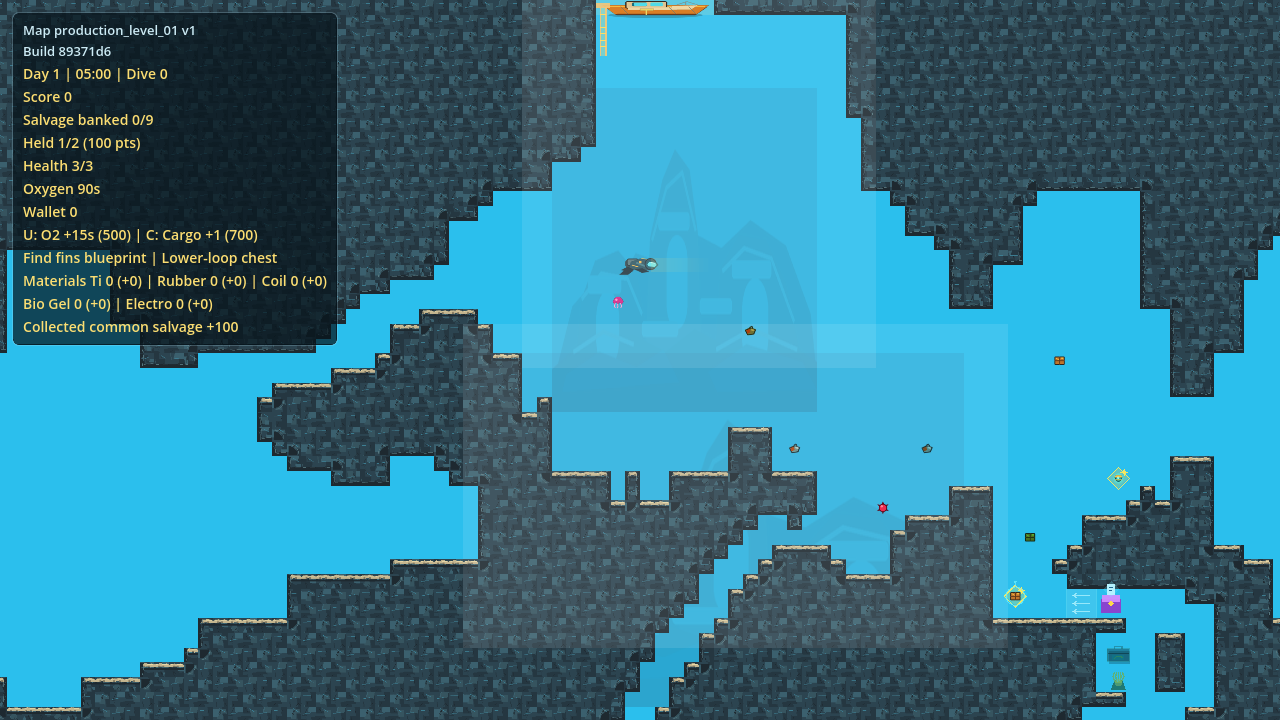
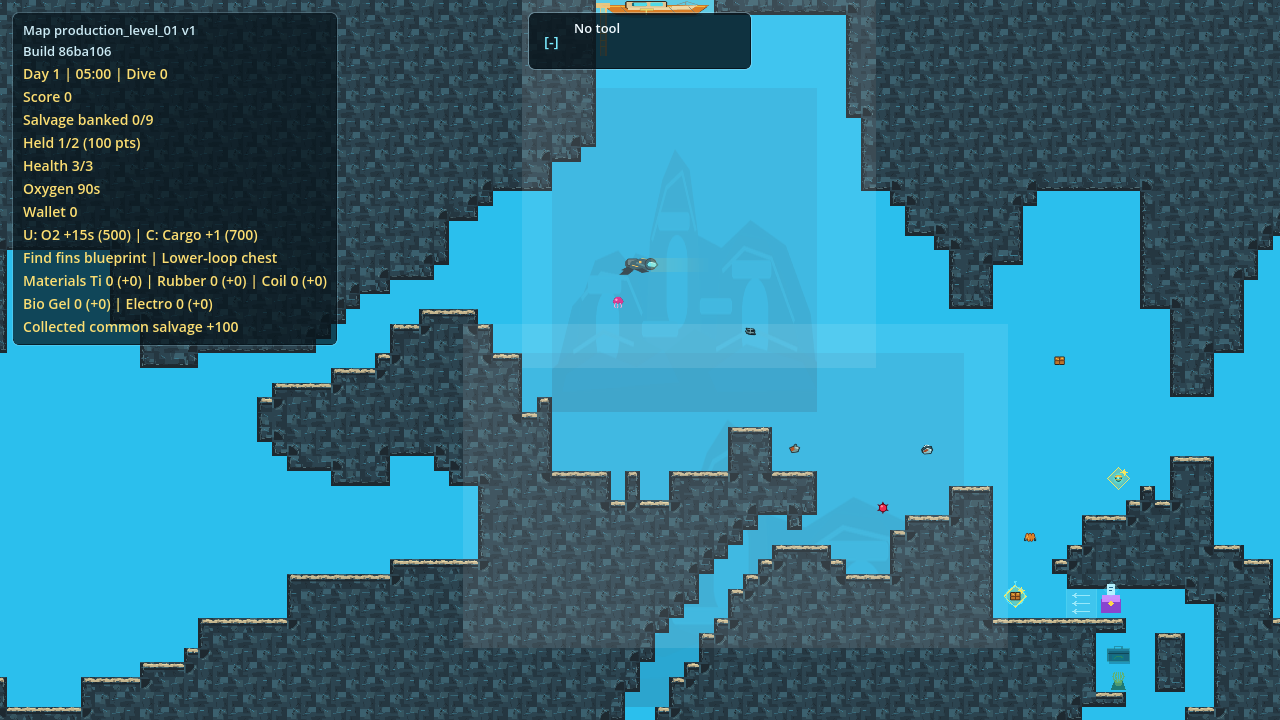
docs: verify Expansion 13 owner-HOLD correction (#1009) (#1019)

diff --git a/docs/current/PROJECT_CONTEXT.md b/docs/current/PROJECT_CONTEXT.md
@@ -38,7 +38,7 @@ Expansion 11 is complete with player GO through #914 plus corrections #925/#927.
 
 Expansion 12 is complete with player GO through #941 plus player-HOLD corrections #951-#953. The deep-harmonic clue now reveals a durable Ti2/Rubber1/Gel1 night-built pressure suit for one scoutable lower-central pressure threshold and protected abyssal survey. Explicit `Q/SCAN` activation, full-cargo scanner feedback, pending boat-return guidance, deterministic journey coverage, and exact-SHA Web verification pass at runtime `d864a9e`.
 
-Expansion 13 Southeast Wreck Return remains at owner HOLD. #986-#990 corrected scanner acquisition and cutter-blueprint causality at exact runtime `89371d6`; #1000-#1008 add deliberate shared tool controls, matching mobile presentation, named material sprites, sealed-wreck navigation data that remains pending through failure-safe held cargo until canonical-boat commitment, deterministic correction evidence, and focused desktop/mobile captures. #1009 still owns final visual/Web review; #969 remains open for owner replay.
+Expansion 13 Southeast Wreck Return remains at owner HOLD. #1000-#1009 technically complete deliberate shared tool controls, matching mobile presentation, named material sprites, sealed-wreck navigation data that remains pending through failure-safe held cargo until canonical-boat commitment, deterministic evidence, focused captures, controlled baseline acceptance, and exact-SHA Web verification at runtime `86ba106`. #969 remains open for owner replay.
 
 Emergency Week and Food/Water/Power overnight survival taxes are rejected. Shortcut and fast-travel networks are also rejected; remembered geography remains part of expedition pressure.
 
@@ -68,7 +68,7 @@ Controlled gameplay/visual passes are now a validation lane inside the roadmap, 
 - Completed Expansion 10 handoff: `docs/current/OCEANGAME_EXPANSION_10_CLOSEOUT.md` plus its linked plan, source contract, visual decision, Web verification, and correction #900
 - Completed Expansion 11 handoff: `docs/current/OCEANGAME_EXPANSION_11_CLOSEOUT.md` plus its plan, source/state contract, visual decision, Web verification, corrections #925/#927, and player GO #914
 - Completed Expansion 12 handoff: `docs/current/OCEANGAME_EXPANSION_12_CLOSEOUT.md` plus its plan, source/state contract, visual decision, Web verification, corrections #951-#953, and player GO #941
-- Active Expansion 13 owner-HOLD handoff: `docs/current/OCEANGAME_EXPANSION_13_OWNER_HOLD_CORRECTION_PLAN.md` and `docs/current/ACTIVE_TOOL_AND_WRECK_REWARD_CONTRACT.md`
+- Active Expansion 13 owner-replay handoff: `docs/current/OCEANGAME_EXPANSION_13_OWNER_HOLD_CORRECTION_PLAN.md`, `docs/current/ACTIVE_TOOL_AND_WRECK_REWARD_CONTRACT.md`, and `docs/current/OCEANGAME_EXPANSION_13_OWNER_HOLD_CORRECTION_VISUAL_WEB_VERIFICATION.md`
 - Progression framework: `docs/planning/CAPABILITY_RESOURCE_PROGRESSION_MATRIX.md`
 - Architecture: `docs/current/ARCHITECTURE.md`
 - Tooling: `docs/current/TOOLING.md`
@@ -76,10 +76,10 @@ Controlled gameplay/visual passes are now a validation lane inside the roadmap, 
 - Latest expansion decision: owner HOLD with correction #1000-#1009 in `docs/current/OCEANGAME_EXPANSION_13_OWNER_HOLD_CORRECTION_PLAN.md`
 - Latest completed expansion plan: `docs/current/OCEANGAME_EXPANSION_13_PLAN.md`, with ownership locked by `docs/current/OCEANGAME_EXPANSION_13_SOURCE_STATE_CONTRACT.md`
 - Latest source contract: `docs/current/SCAN_SUBJECT_SOURCE_CONTRACT.md`, bounded by `docs/current/OCEANGAME_EXPANSION_13_SOURCE_STATE_CONTRACT.md`
-- Latest visual decision: corrected full-level baseline accepted in `docs/current/OCEANGAME_EXPANSION_13_HOLD_CORRECTION_VISUAL_WEB_VERIFICATION.md`
+- Latest visual decision: owner-HOLD correction baseline accepted from runtime `86ba106` in `docs/current/OCEANGAME_EXPANSION_13_OWNER_HOLD_CORRECTION_VISUAL_WEB_VERIFICATION.md`
 - Current expansion gates: `docs/current/SIMPLE_DIVER_GAME_09_ARCHITECTURE_VALIDATION_GATES.md`
 - Release-candidate closeout: `docs/current/SIMPLE_DIVER_GAME_08_RELEASE_CANDIDATE_CLOSEOUT.md` (GO; regression foundation for Expansion 01).
-- Latest Web verification: corrected Expansion 13 runtime `89371d6`, recorded in `docs/current/OCEANGAME_EXPANSION_13_HOLD_CORRECTION_VISUAL_WEB_VERIFICATION.md`.
+- Latest Web verification: owner-HOLD correction runtime `86ba106`, recorded in `docs/current/OCEANGAME_EXPANSION_13_OWNER_HOLD_CORRECTION_VISUAL_WEB_VERIFICATION.md`.
 
 Start every new coding session by reading `AGENTS.md`, this file, `README.md`, and the relevant docs under `docs/current/`.
 
@@ -146,7 +146,7 @@ Current map-loading helper:
 
 ## Web Preview Status
 
-The public preview was last technically verified for the corrected Expansion 13 HOLD candidate at exact build `89371d6`; this proves deployment, not player approval:
+The public preview was last technically verified for the Expansion 13 owner-HOLD correction candidate at exact build `86ba106`; this proves deployment, not player approval:
 
 ```text
 https://joeypshell.github.io/oceangame2/
@@ -210,8 +210,8 @@ Current issue state as of 2026-07-17:
 - Closed: #905-#914 plus corrections #925/#927 completed Expansion 11 with player GO and exact-SHA Web verification.
 - Closed: #932-#941 plus corrections #951-#953 completed Expansion 12 with player GO and exact-SHA Web verification.
 - Closed: #980 and #986-#990 delivered the first Expansion 13 HOLD correction and exact-SHA runtime `89371d6` verification.
-- Closed correction foundation: #1000-#1008 define and implement selected active-tool input, deliberate cutter activation, compact controls, readable named material sprites, the source/runtime sealed-wreck navigation reward through exact-once boat commitment and profile compatibility, deterministic correction evidence, and focused desktop/mobile captures.
-- Active: #1009 owns final visual/Web review; #969 and milestone #39 remain open for owner replay. No next expansion or broad economy is selected.
+- Closed correction batch: #1000-#1009 define, implement, validate, capture, accept, and deploy selected active-tool input, deliberate cutter activation, compact controls, readable named material sprites, and the source/runtime sealed-wreck navigation reward through exact-once boat commitment and profile compatibility.
+- Active: #969 and milestone #39 remain open for owner replay. No next expansion or broad economy is selected.
 - Open bookkeeping: #849 names three UID sidecars already committed by `e825c88`; it does not block planning and should be closed separately with that evidence.
 - Deferred: #52/#53 remain optional slice-03 presentation polish.
 - Completed pass ranges and historical closeouts are indexed in `docs/MILESTONES.md`; do not duplicate that history here.
@@ -349,7 +349,7 @@ Current issue state as of 2026-07-17:
 
 ## Recommended Next Work
 
-Use `docs/planning/OCEANGAME_PHASE_2_ROADMAP.md`, `docs/current/OCEANGAME_EXPANSION_13_OWNER_HOLD_CORRECTION_PLAN.md`, and `docs/current/ACTIVE_TOOL_AND_WRECK_REWARD_CONTRACT.md` as the current handoff. Resolve only #1009 final visual/Web review, then return to #969 for owner replay; do not select another expansion or implement spendable credits first.
+Use `docs/planning/OCEANGAME_PHASE_2_ROADMAP.md`, `docs/current/OCEANGAME_EXPANSION_13_OWNER_HOLD_CORRECTION_PLAN.md`, `docs/current/ACTIVE_TOOL_AND_WRECK_REWARD_CONTRACT.md`, and `docs/current/OCEANGAME_EXPANSION_13_OWNER_HOLD_CORRECTION_VISUAL_WEB_VERIFICATION.md` as the current handoff. Complete only #969 owner replay; do not select another expansion or implement spendable credits first.
 
 Accepted constraints for next work:
 

diff --git a/docs/current/ARCHITECTURE.md b/docs/current/ARCHITECTURE.md
@@ -4,7 +4,7 @@
 
 The current project is a Godot 4.7 side-view ocean salvage prototype for proving the source-driven map, terrain, validation, capture, and gameplay workflow that will support a finished small diver game.
 
-The long-range product roadmap is `docs/planning/OCEANGAME_PHASE_2_ROADMAP.md`. Expansion 13 remains at owner HOLD after exact runtime `89371d6`. #1000-#1008 establish the active-tool correction, compact controls, named material presentation, sealed-wreck navigation reward, deterministic correction evidence, and focused desktop/mobile captures; final visual/Web review remains in #1009. #969 remains the owner replay gate and no next expansion is selected.
+The long-range product roadmap is `docs/planning/OCEANGAME_PHASE_2_ROADMAP.md`. Expansion 13 remains at owner HOLD, while #1000-#1009 technically establish the active-tool correction, compact controls, named material presentation, sealed-wreck navigation reward, deterministic evidence, focused captures, accepted full-level baseline, and exact-SHA Web deployment at runtime `86ba106`. #969 remains the owner replay gate and no next expansion is selected.
 
 ## Source Of Truth
 
@@ -232,7 +232,7 @@ Art placement must not create, remove, or move collision.
 - Expansion 12 adds `required_pressure_capability_id` to the same survey flow. `PressureZoneController` owns source-zone overlap, warning/grace state, contextual feedback, and one oxygen-drain multiplier; `SortieState` remains the sole mutable oxygen owner. The durable Ti2/Rubber1/Gel1 pressure-suit project restores normal zone drain, while explicit `Q/SCAN`, cancel-on-leave, full-cargo independence, pending failure cleanup, and canonical-boat exact-once commitment remain with the existing survey/discovery owners.
 - Expansion 13 reuses that flow for `southeast_wreck_archive_survey`. The pressure suit remains transitively grounded in the abyssal discovery, while the regional journey directly requires `southeast_wreck_navigation_data`. `CargoCollectionController` keeps valuable salvage capacity/held-cargo semantics authoritative; `ToolTargetRewardRuntime` translates the cutter target's source reward into the existing `ExpeditionDiscoveryState`; canonical-boat update commits through `ExpansionProfileState`, and completed archive profiles migrate the prerequisite exactly once. `RegionalJourneyPresentation` reveals only the source-authored broad southeast lead after commitment. `SurveyDependencyState` still requires the cutter-cleared recorder before scanning.
 - `--smoke-expansion-13-southeast-wreck-return` uses an empty temporary profile plus deterministic prerequisite fixtures, then swims the collision-active route once and protects pressure crossing, oxygen margins, interaction/failure semantics, boat commitment, and profile reload without purchasing the optional session oxygen tank.
-- `--smoke-expansion-13-scanner-cutter-correction` protects the fresh and migrated scanner-to-cutter chain, forward-cone selection and cancellation, physical artifact presentation, no-recipe-before-commit rule, exact materials/night build, separate sealed-wreck salvage value and pending navigation data, canonical-boat commitment, broad southeast lead, and failure cleanup. Focused active-tool, cutter-state, sealed-wreck reward, combat, and southeast-return checks complete the deterministic correction matrix without duplicating the release suite. The matching focused capture renders seven desktop/mobile states without entering accepted baselines.
+- `--smoke-expansion-13-scanner-cutter-correction` protects the fresh and migrated scanner-to-cutter chain, forward-cone selection and cancellation, physical artifact presentation, no-recipe-before-commit rule, exact materials/night build, separate sealed-wreck salvage value and pending navigation data, canonical-boat commitment, broad southeast lead, and failure cleanup. Focused active-tool, cutter-state, sealed-wreck reward, combat, and southeast-return checks complete the deterministic correction matrix without duplicating the release suite. The matching focused capture renders 16 desktop/mobile states without entering accepted baselines.
 - Expansion 06 source/state ownership is locked in `OCEANGAME_EXPANSION_06_SOURCE_CONTRACT.md` and corrected by `OCEANGAME_EXPANSION_07_PLAYER_GATE_CORRECTION.md`: one immutable deep-cache territorial-lunge encounter, one durable non-circular shock-prod project, focused day-local hostile state, and player health separate from oxygen. The eel cache declares a behavioral guard link but no capability collection lock; contact and knockback interrupt normal timed salvage until the encounter is controlled.
 - `--smoke-expansion-06-combat-foundation` protects the attemptable unarmed cache, active-eel interruption, contact damage/invulnerability, continuing oxygen/daylight pressure, exact project build/reload, three-hit no-reward victory, guarded cache collection/banking, connector/day state, combat cleanup, and failure resets.
 - `--capture-expansion-06-combat-foundation` renders locked warning, unarmed lunge/evade, and armed 1/3-health damage states at both review viewports without changing accepted baselines.

diff --git a/docs/current/OCEANGAME_EXPANSION_13_OWNER_HOLD_CORRECTION_VISUAL_WEB_VERIFICATION.md b/docs/current/OCEANGAME_EXPANSION_13_OWNER_HOLD_CORRECTION_VISUAL_WEB_VERIFICATION.md
@@ -1,0 +1,105 @@
+# OceanGame Expansion 13 Owner-HOLD Correction Visual And Web Verification
+
+Date: 2026-07-17
+
+Issue: #1009
+
+Runtime candidate: `86ba106eff4c703d9b0d5e4ac6f93735af49857e`
+
+## Result
+
+**Technical PASS. Expansion 13 remains at owner HOLD until #969 records the
+player replay.**
+
+Issues #1000-#1009 now provide deliberate shared tool use, compact desktop and
+mobile tool presentation, named material sprites, a separate +300 sealed-wreck
+salvage payoff, failure-safe pending navigation data, exact-once boat
+commitment, deterministic evidence, focused captures, and exact-SHA Web
+verification. Automation does not prove clarity, engagement, or player GO.
+
+- Public preview: `https://joeypshell.github.io/oceangame2/`
+- Fresh owner review:
+  `https://joeypshell.github.io/oceangame2/?review=86ba106eff4c703d9b0d5e4ac6f93735af49857e`
+- [Godot Web Export run 29619027177](https://github.com/joeypshell/oceangame2/actions/runs/29619027177): success
+
+The later documentation/baseline merge records this decision; it is not a new
+runtime candidate.
+
+## Visual Decision
+
+The `production_level_01` baseline is accepted from exact runtime `86ba106`.
+All comparison sheets were rendered and inspected before acceptance.
+
+Accepted intentional differences from the prior `89371d6` baseline are:
+
+- the compact active-tool HUD on desktop and mobile
+- scanner, cutter, and shock-prod selected-tool presentation
+- source-authored titanium ingot, folded rubber, and spring-like coil sprites
+- the review build label advancing from `89371d6` to `86ba106`
+- focused wrong-tool guidance, deliberate cutter progress, separate +300 and
+  pending navigation-data feedback, boat commitment, and southeast lead
+
+Stable unchanged areas are terrain, collision-facing edges, boat, diver,
+camera framing, lighting, background layers, unrelated props, and the accepted
+HUD outside the selected-tool surface, and the accepted slice-01 through
+slice-04 baselines. Only the 14 full-level views were
+accepted. After acceptance, all 14 accepted/current hashes match and every
+comparison difference column is black.
+
+The 32 focused correction PNGs remain ignored under
+`visual_captures/expansion_13_scanner_cutter_correction/`. Two exact-runtime
+runs produced 32/32 identical SHA-256 hashes. No focused capture, `.import`
+sidecar, cache, or unrelated generated file entered the baseline.
+
+## Browser Evidence
+
+The public checker independently verified deployed runtime `86ba106`:
+
+- external `build_info.json` reports the exact 40-character SHA
+- root and fresh-review URLs initialize `production_level_01`
+- an explicit slice-review URL initializes `production_slice_01` on desktop/mobile
+- primary canvas: 1280x720 CSS pixels
+- wide canvas: 1920x1080 CSS pixels
+- iPhone-landscape canvas: 2532x1170 intrinsic at 844x390 CSS, positioned at
+  `(0, 0)` over an 844x390 visual viewport with zero offset
+- mobile touch differences: stick-down `8.60`, oxygen `4.91`, build `5.60`,
+  use `5.10`; all exceed the minimum `2`
+- framing mean difference: `1.35`, below the maximum `18`
+- no failed requests, missing assets, `SCRIPT ERROR`, or Godot `ERROR:` output
+
+Independent desktop and mobile screenshots were inspected. The canvas is top
+anchored, the mobile controls remain reachable, the compact tool HUD does not
+overlap them, and the expected aspect-preserving side bars remain inside the
+canvas. Chromium emitted only allowed software-WebGL fallback and `ReadPixels`
+performance warnings.
+
+## Owner Replay
+
+#969 and milestone #39 remain open. Use the fresh owner-review URL and check:
+
+1. Rubber and coil are recognizable without relying on their old generic art.
+2. `Tab`/`TOOL` cycles scanner, cutter, and shock prod in a predictable order.
+3. `Q`/`USE` activates only the selected tool; cutter proximity alone does not
+   progress, and a wrong tool gives useful selection guidance.
+4. Opening the sealed wreck grants valuable salvage and pending navigation
+   data as separate outcomes.
+5. Returning to the canonical boat commits that data and reveals the broad
+   southeast lead.
+6. The corrected journey provides enough clarity and payoff for GO; otherwise
+   record a concrete HOLD finding on #969.
+
+Do not select Expansion 14 until that owner decision is recorded.
+
+## Verification
+
+```powershell
+python tools/write_build_info.py
+& 'C:\Program Files\Godot\Godot_v4.7-stable_win64.exe\Godot_v4.7-stable_win64_console.exe' --path . --capture-expansion-13-scanner-cutter-correction
+& 'C:\Program Files\Godot\Godot_v4.7-stable_win64.exe\Godot_v4.7-stable_win64_console.exe' --path . --capture-expansion-09-full-level
+python tools/manage_production_slice_baseline.py compare-all
+python tools/manage_production_slice_baseline.py --slice production_level_01 accept
+python tools/manage_production_slice_baseline.py check-clean --all-slices
+node tools/check_web_preview.cjs https://joeypshell.github.io/oceangame2/ --expected-sha 86ba106eff4c703d9b0d5e4ac6f93735af49857e
+python tools/check_file_lengths.py
+git diff --check
+```

diff --git a/docs/MILESTONES.md b/docs/MILESTONES.md
@@ -31,10 +31,11 @@ This is the compact milestone index. Detailed direction lives in:
 - `docs/current/OCEANGAME_EXPANSION_13_HOLD_CORRECTION_VISUAL_WEB_VERIFICATION.md`
 - `docs/current/OCEANGAME_EXPANSION_13_OWNER_HOLD_CORRECTION_PLAN.md`
 - `docs/current/ACTIVE_TOOL_AND_WRECK_REWARD_CONTRACT.md`
+- `docs/current/OCEANGAME_EXPANSION_13_OWNER_HOLD_CORRECTION_VISUAL_WEB_VERIFICATION.md`
 
 ## Current State
 
-Simple Diver Game 01-09 and OceanGame Expansions 01-12 are complete. Expansion 13 remains at owner HOLD in open milestone #39. Exact runtime `89371d6` proved the scanner-to-cutter discovery chain but exposed automatic cutter use, unclear rubber/coil visuals, and a sealed-wreck reward with no durable progression. #1000-#1009 own the bounded correction before owner replay #969. `production_level_01` remains the normal editor, local, and public Web default; slices 01-04 remain unchanged regression/provenance fixtures.
+Simple Diver Game 01-09 and OceanGame Expansions 01-12 are complete. Expansion 13 remains at owner HOLD in open milestone #39, while #1000-#1009 technically complete the bounded active-tool, material-visual, and sealed-wreck navigation correction at exact runtime `86ba106`. Only owner replay #969 remains. `production_level_01` remains the normal editor, local, and public Web default; slices 01-04 remain unchanged regression/provenance fixtures.
 
 Phase 2 is now selected. Its organizing loop is daylight with multiple oxygen sorties, boat-only banking, night debrief/preparation, material-and-knowledge projects, capability-gated map returns, practical research, enemies/weapons, and biological resources.
 
@@ -42,14 +43,14 @@ Emergency Week and overnight Food/Water/Power survival taxes are rejected. Short
 
 ## Planning Horizons
 
-- Committed: resolve Expansion 13 owner-HOLD issues #1000-#1009 and return to #969.
+- Committed: complete Expansion 13 owner replay #969 against exact runtime `86ba106`.
 - Proposed: no next milestone or broad economy until the owner replay records GO/HOLD.
 - Directional: pure oxygen-capacity progression, other regional identities, and exceptional interiors remain uncommitted.
 - Vision: production content, vehicles, broad crafting, final art/audio, accessibility, input support, balance, save hardening, and release work remain intentionally un-ticketed.
 
 ## Recent GitHub Milestone State
 
-1. [Expansion 13: Southeast Wreck Return](https://github.com/joeypshell/oceangame2/milestone/39) - owner-HOLD correction #1000-#1009 is active; #969 remains the final replay gate.
+1. [Expansion 13: Southeast Wreck Return](https://github.com/joeypshell/oceangame2/milestone/39) - owner-HOLD correction #1000-#1009 is technically complete at `86ba106`; #969 remains the final replay gate.
 2. [Expansion 12: Abyssal Pressure Return](https://github.com/joeypshell/oceangame2/milestone/38) - complete through #941 plus corrections #951-#953, with player GO and exact-SHA Web verification.
 3. [Expansion 11: Deep-Harmonic Light Return](https://github.com/joeypshell/oceangame2/milestone/37) - complete through #914 plus corrections #925/#927, with player GO and final exact-SHA Web verification.
 
@@ -91,12 +92,12 @@ Emergency Week and overnight Food/Water/Power survival taxes are rejected. Short
 
 ## Expansion 13 Player HOLD
 
-#960-#968 delivered the original southeast wreck journey at `a9d1431`; #980 and #986-#990 corrected its scanner-to-cutter discovery chain at `89371d6`. The owner replay then found automatic cutter use, unclear rubber/coil visuals, and a sealed-wreck payoff that ends at ordinary `+300` value. #1000-#1009 now own a bounded active-tool, material-visual, and navigation-data correction. #969 remains open for the owner replay; automation cannot declare GO.
+#960-#968 delivered the original southeast wreck journey at `a9d1431`; #980 and #986-#990 corrected its scanner-to-cutter discovery chain at `89371d6`. The owner replay then found automatic cutter use, unclear rubber/coil visuals, and a sealed-wreck payoff that ended at ordinary `+300` value. #1000-#1009 technically complete the bounded active-tool, material-visual, and navigation-data correction at `86ba106`. #969 remains open for the owner replay; automation cannot declare GO.
 
 ## Roadmap Rules
 
 - Do not reopen completed expansion batches merely to keep the queue full.
-- Resolve #1000-#1009 and complete #969's owner GO/HOLD replay before selecting another milestone.
+- Complete #969's owner GO/HOLD replay before selecting another milestone.
 - Keep controlled passes as validation/review structure, not as the product roadmap.
 - Keep `production_level_01` as the default map unless a separate reviewed decision changes it.
 - Do not use teleports, prompted connectors, map menus, or the current stabilizer for normal traversal of the full level.

diff --git a/README.md b/README.md
@@ -2,7 +2,7 @@
 
 `oceangame2` is a compact side-view diver salvage game foundation in a controlled OceanGame Phase 2 expansion.
 
-The compact diver foundation and OceanGame Expansions 01-12 are complete with player GO. Expansion 13 remains at owner HOLD after exact runtime `89371d6` exposed automatic cutter use, unclear rubber/coil visuals, and a sealed-wreck payoff that does not durably advance progression. Correction issues #1000-#1009 and player gate #969 remain inside milestone #39. The contiguous `production_level_01` remains the editor, local, and public Web default; slices 01-04 remain unchanged regression fixtures.
+The compact diver foundation and OceanGame Expansions 01-12 are complete with player GO. Expansion 13 remains at owner HOLD, but correction issues #1000-#1009 are technically complete and deployed at exact runtime `86ba106`: tools now use one deliberate control model, named material sprites are readable, and sealed-wreck navigation data commits at the boat. Player gate #969 remains open inside milestone #39. The contiguous `production_level_01` remains the editor, local, and public Web default; slices 01-04 remain unchanged regression fixtures.
 
 ## Project Goal
 
@@ -24,7 +24,7 @@ Build a small side-view salvage game that proves:
 
 ## Planning Docs
 
-Current handoff is the Expansion 13 owner-HOLD correction plan and active issues #1000-#1009. Correct active-tool use, material readability, and the progression-bearing sealed-wreck reward, then return to #969 for owner replay. A broad credits economy, Expansion 14, teleport, connector-based normal traversal, stabilizer entry requirements, pure oxygen-capacity gating, and broad pressure progression remain deferred.
+Current handoff is owner replay #969 against the technically verified Expansion 13 correction at `86ba106`. Test deliberate active-tool use, material readability, and the progression-bearing sealed-wreck reward before recording GO/HOLD. A broad credits economy, Expansion 14, teleport, connector-based normal traversal, stabilizer entry requirements, pure oxygen-capacity gating, and broad pressure progression remain deferred.
 
 Core sources and operating docs:
 
@@ -120,6 +120,7 @@ Current release and expansion handoff:
 - [Expansion 13 HOLD Correction Visual And Web Verification](docs/current/OCEANGAME_EXPANSION_13_HOLD_CORRECTION_VISUAL_WEB_VERIFICATION.md)
 - [Expansion 13 Owner-HOLD Correction Plan](docs/current/OCEANGAME_EXPANSION_13_OWNER_HOLD_CORRECTION_PLAN.md)
 - [Active Tool And Wreck Reward Contract](docs/current/ACTIVE_TOOL_AND_WRECK_REWARD_CONTRACT.md)
+- [Expansion 13 Owner-HOLD Correction Visual And Web Verification](docs/current/OCEANGAME_EXPANSION_13_OWNER_HOLD_CORRECTION_VISUAL_WEB_VERIFICATION.md)
 
 Historical controlled-pass documents remain under `docs/current/`; use their closeouts only when working on the matching regression surface.
 
@@ -253,4 +254,4 @@ Local preview commands are documented in [Tooling](docs/current/TOOLING.md). The
 
 ## Current Success Condition
 
-The current foundation succeeds when one authored expedition can use a profile-backed scanner, make multiple oxygen sorties under daylight, turn seeded materials and practical knowledge into durable route decisions, revisit remembered targets, resolve one optional fight-or-evade encounter, react to a forecasted daily opportunity, resolve night cleanly, and remain deterministic across map validation, smokes, captures, accepted baselines, and the public Web preview. Expansions 01-12 meet that condition through the player-approved full cave, regional, light, and pressure returns. Expansion 13 does not meet the player-experience condition until #1000-#1009 correct deliberate tool use and wreck progression and #969 records the owner replay.
+The current foundation succeeds when one authored expedition can use a profile-backed scanner, make multiple oxygen sorties under daylight, turn seeded materials and practical knowledge into durable route decisions, revisit remembered targets, resolve one optional fight-or-evade encounter, react to a forecasted daily opportunity, resolve night cleanly, and remain deterministic across map validation, smokes, captures, accepted baselines, and the public Web preview. Expansions 01-12 meet that condition through the player-approved full cave, regional, light, and pressure returns. Expansion 13 is technically complete through #1000-#1009 but does not meet the player-experience condition until #969 records the owner replay.

diff --git a/docs/current/tooling/web_export.md b/docs/current/tooling/web_export.md
@@ -8,7 +8,7 @@ python tools/write_build_info.py
 
 This writes ignored `build_info.json`. The web export workflow generates that file from `GITHUB_SHA` before export, so the public preview can identify the deployed commit.
 
-The latest exact-SHA Pages verification is recorded in [OceanGame Expansion 13 HOLD Correction Visual And Web Verification](../OCEANGAME_EXPANSION_13_HOLD_CORRECTION_VISUAL_WEB_VERIFICATION.md). The original [Expansion 13 Web Preview Verification](../OCEANGAME_EXPANSION_13_WEB_PREVIEW_VERIFICATION.md) remains historical evidence for the superseded HOLD candidate, and the older [Simple Diver Game 08 Web Export Handoff](../SIMPLE_DIVER_GAME_08_WEB_EXPORT_HANDOFF.md) remains the release-candidate foundation.
+The latest exact-SHA Pages verification is recorded in [OceanGame Expansion 13 Owner-HOLD Correction Visual And Web Verification](../OCEANGAME_EXPANSION_13_OWNER_HOLD_CORRECTION_VISUAL_WEB_VERIFICATION.md). The earlier [Expansion 13 HOLD Correction Visual And Web Verification](../OCEANGAME_EXPANSION_13_HOLD_CORRECTION_VISUAL_WEB_VERIFICATION.md) remains evidence for the superseded `89371d6` candidate, and the older [Simple Diver Game 08 Web Export Handoff](../SIMPLE_DIVER_GAME_08_WEB_EXPORT_HANDOFF.md) remains the release-candidate foundation.
 
 Build a local Web export preview:
 
